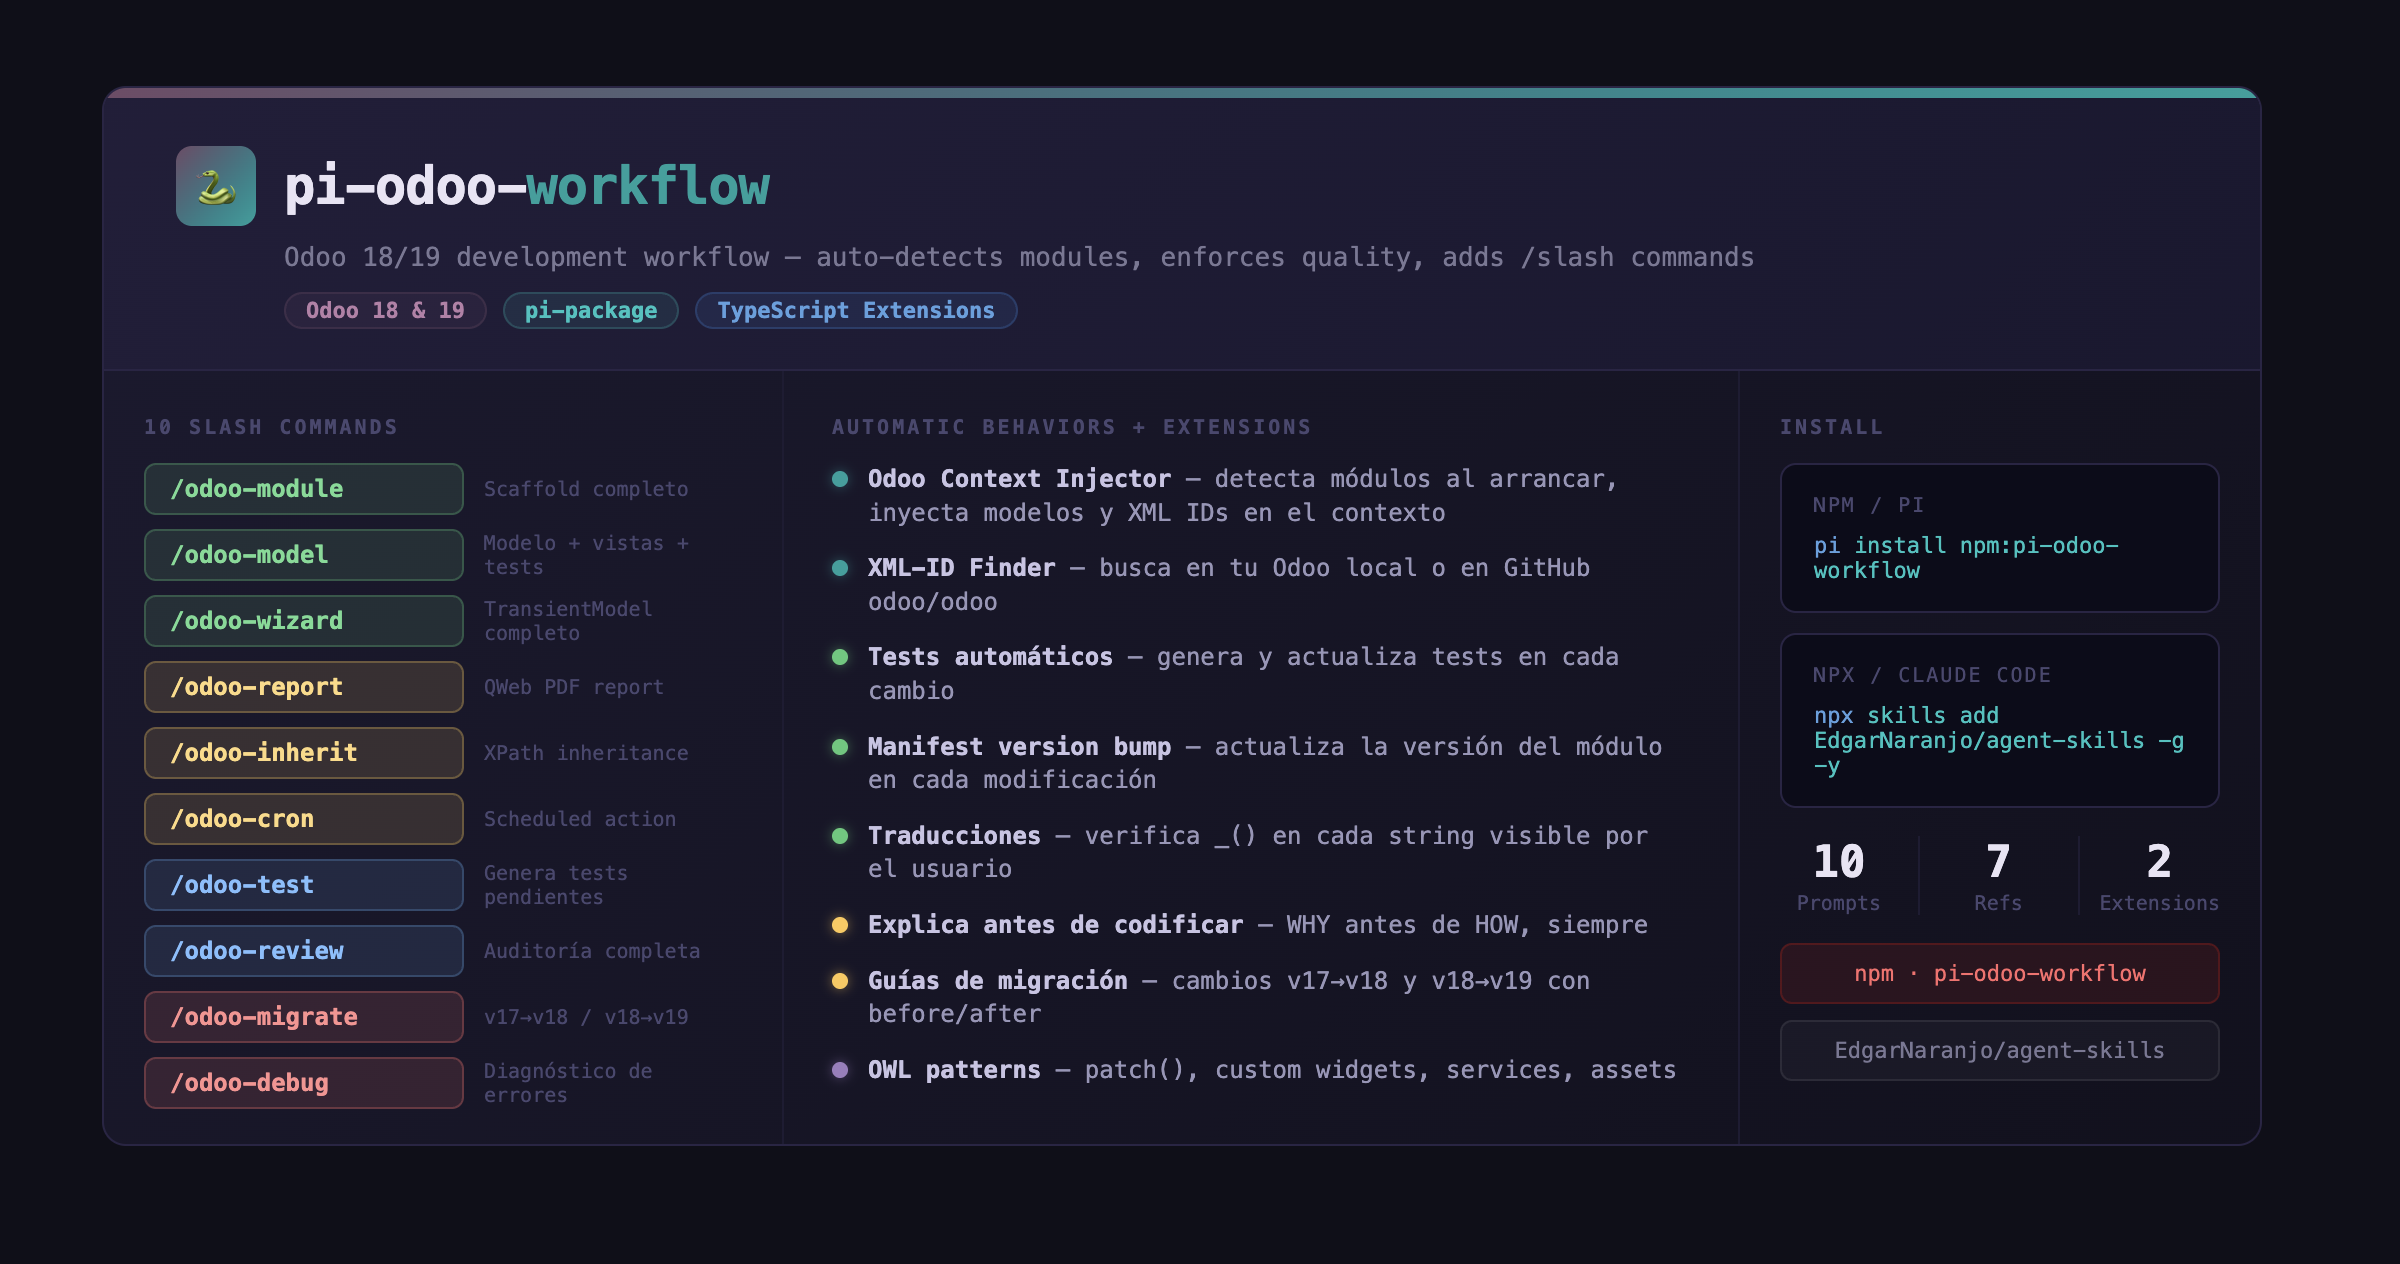
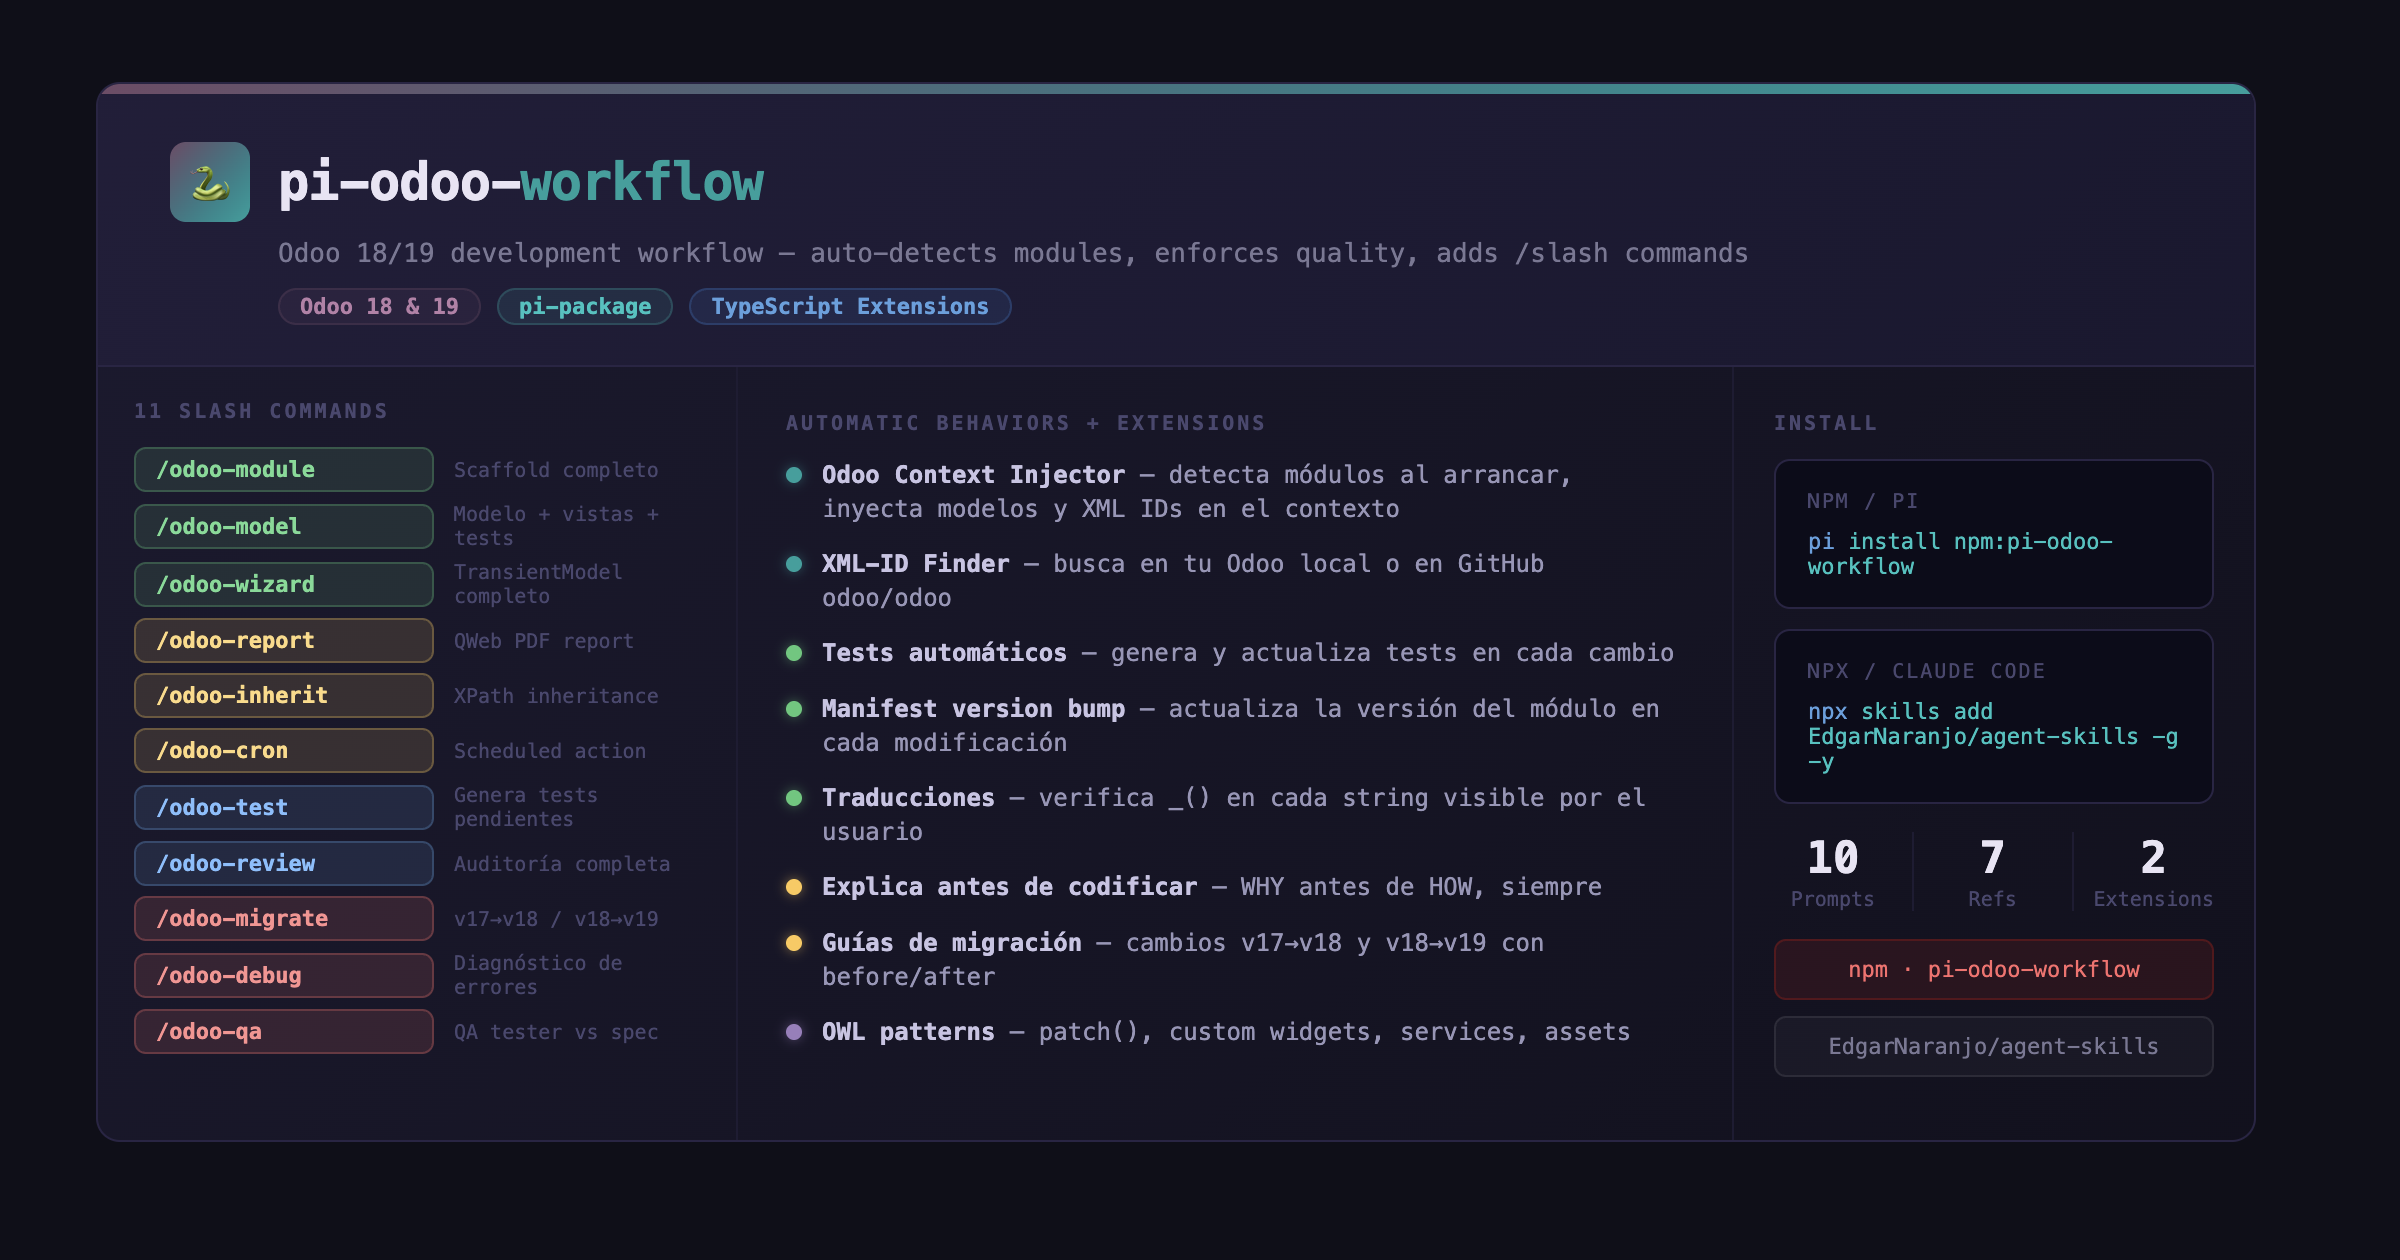
feat: update preview image with /odoo-qa and 11 slash commands

diff --git a/README.md b/README.md
@@ -41,6 +41,7 @@ Type `/command` in pi to expand into full instructions:
 | `/odoo-test` | Scans existing code and generates/updates tests for uncovered methods |
 | `/odoo-review` | Full audit: structure, APIs, translations, tests, security — with ✅/⚠/❌ |
 | `/odoo-migrate` | Migrates module between versions (v17→v18 or v18→v19) |
+| `/odoo-qa` | QA tester — validates implementation against spec, generates functional summary and APPROVED/REJECTED verdict |
 
 ## Install
 
